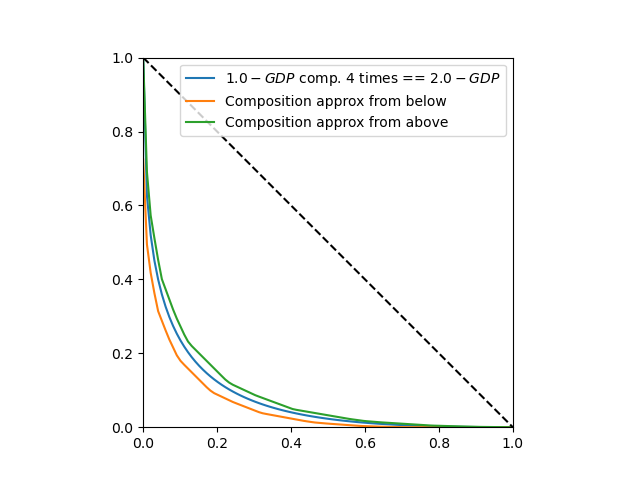
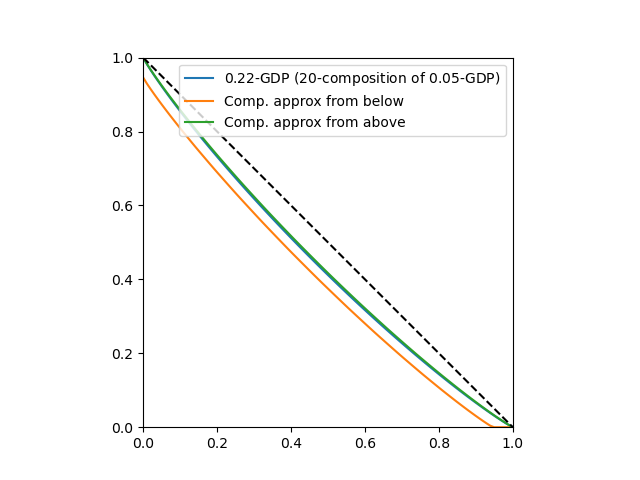
cleaned main

Changed region(s): [[0.2188, 0.125, 0.8125, 0.9062], [0.3438, 0.125, 0.7812, 0.2812]]

diff --git a/src/main.py b/src/main.py
@@ -1,41 +1,34 @@
+import numpy as np
+
+from base.tradeoff_function import TradeOffFunction
+from base.utils import plot_multiple_functions
 from f_dp_approximation.gaussian_tradeoff import GaussianTradeoff
 from f_dp_approximation.laplace_tradeoff import LaplaceTradeoff
-from multi_dp_mixture.dp_functions import SingleEpsDeltaTradeoff
-from main_theorems.combinatorial_version import privacy_region_composition_double_dp_combinatorial
-from main_theorems.heterogeneous_version import privacy_region_composition_double_dp_heterogeneous_comp, \
-    privacy_region_composition_heterogeneous
-from main_theorems.other_composition_theorems import *
-from base.utils import plot_multiple_functions
-from base.tradeoff_function import TradeOffFunction
+from main_theorems.heterogeneous_version import privacy_region_composition_double_dp_heterogeneous_comp
+from main_theorems.other_composition_theorems import privacy_region_composition_exact
+from multi_dp_mixture.dp_functions import SingleEpsDeltaTradeoff, MultiEpsDeltaTradeoff
 
 
-def multi_dp_test():
-    eps_s = [0.8, 0.25]
-    delta_s = [0.1, 0.2]
-    f = MultiEpsDeltaTradeoff(eps_s, delta_s)
-    f.to_plot()
+def png(title: str, plots_folder: str = "../plots/") -> str:
+    """
+    Preprocess title to save matplotlib figure as png in the correct folder.
 
-def add_test():
-    f = 0.5 * (SingleEpsDeltaTradeoff(0.6, 0.5) + SingleEpsDeltaTradeoff(0.5, 0.2))
-    f.to_plot()
+    :param title: title of figure
+    :type title: str
 
-def convex_conj_test():
-    eps_s = [0.8, 0.25]
-    delta_s = [0.1, 0.2]
-    f = MultiEpsDeltaTradeoff(eps_s, delta_s)
-    f.to_plot()
-    f.convex_conjugate().to_plot()
+    :param plots_folder: folder to save figures in
+    :type plots_folder: str
 
-def double_convex_conj_is_identity_test():
-    eps_s = [0.8, 0.25, 0]
-    delta_s = [0.1, 0.2, 0.65]
-    f = MultiEpsDeltaTradeoff(eps_s, delta_s)
-    f.to_plot()
-    f_conj = f.convex_conjugate()
-    f_double_conj = f_conj.convex_conjugate()
-    f_double_conj.to_plot()
+    :return: prepend folder and append .png
+    :rtype: str
+    """
+    return plots_folder + title + ".png"
 
-def first_addition_test():
+
+def mixture_example():
+    """
+    Plot an example of a mixture of trade-off functions.
+    """
     alpha_1 = 0.5
     alpha_2 = 1 - alpha_1
     eps_1 = 1.3
@@ -50,9 +43,15 @@ def first_addition_test():
                                             [f"$({eps_1},{delta_1})$-DP",
                                              f"$({eps_2},{delta_2})$-DP",
                                              f"Mixture, weights ({alpha_1}, {alpha_2})"
-                                             ])
+                                             ],
+                            save_to=png("mixture_example")
+                            )
 
-def two_theorems_match():
+def main_theorem_example():
+    """
+    Plot an instance of the double-DP main theorem's result compared to the corresponding
+    single-DP exact composition trade-off functions.
+    """
     eps_1 = 1.2
     delta_1 = 0.0
     eps_2 = 0.6
@@ -60,66 +59,54 @@ def two_theorems_match():
     k = 3
 
     f1 = privacy_region_composition_double_dp_heterogeneous_comp(eps_1, delta_1, eps_2, delta_2, k)
-    f2 = privacy_region_composition_double_dp_combinatorial(eps_1, delta_1, eps_2, delta_2, k)
     fo = MultiEpsDeltaTradeoff([eps_1, eps_2], [delta_1, delta_2])
     f_dp_1 = privacy_region_composition_exact(eps_1, delta_1, k)
     f_dp_2 = privacy_region_composition_exact(eps_2, delta_2, k)
 
     plot_multiple_functions(
         [
-         #fo,
+         fo,
          f1,
-         f2,
-         #f_dp_1,
-         #f_dp_2
+         f_dp_1,
+         f_dp_2
          ],
         [
-         #f"$({eps_1},{delta_1})$ and $({eps_2},{delta_2})$ DP",
-         f"Heterogeneous ${k}$ comp.",
-         f"Combinatorial ${k}$ comp.",
-         #f"$({eps_1},{delta_1})$-DP {k} comp.",
-         #f"$({eps_2},{delta_2})$-DP {k} comp."
-         ]
+         f"$({eps_1},{delta_1})$ and $({eps_2},{delta_2})$ DP",
+         f"Double DP ${k}$ comp.",
+         f"$({eps_1},{delta_1})$-DP {k} comp.",
+         f"$({eps_2},{delta_2})$-DP {k} comp."
+         ],
+        save_to=png("theorem_1_example")
     )
 
-def privacy_region_heter_sanity_check():
-    eps_1 = 1.3
-    delta_1 = 0.0
-    eps_2 = 0.5
-    delta_2 = 0.2
-    x = 3
-    y = 0
-
-    f_comp = privacy_region_composition_heterogeneous(eps_1, eps_2, x, y)
-    f_original = privacy_region_composition_exact(eps_1, 0, x)
-
-    plot_multiple_functions([f_comp, f_original],["Heterogeneous new", "Original"])
 
 def gaussian_tradeoff_approx():
-    # eps = 1
-    # delta = 0.02
-    # mu = GaussianTradeoff.compute_mu_from_eps_delta(eps, delta)
+    """
+    Plot the double-DP lower and upper approximations of the gaussian tradeoff
+    function.
+    """
     mu = 1
     g_mu = GaussianTradeoff(mu)
     g_mu_approx_below = g_mu.approx_from_below()
     g_mu_approx_above = g_mu.approx_from_above()
-    #default_eps_delta = SingleEpsDeltaTradeoff(eps, delta)
     plot_multiple_functions(
         [
             g_mu,
             g_mu_approx_below,
             g_mu_approx_above,
-            #default_eps_delta
         ],
         [
             f"${float(mu):.2}-GDP$",
             f"Approx below",
             "Approx above",
-            #"Default eps delta guarantee"
-        ]
+        ],
+        save_to=png("gaussian_approx")
     )
 
 def gaussian_compos_approx():
+    """
+    Plot the double-DP lower and upper approximations of the gaussian trade-off composition.
+    """
     mu = 0.05
     k = 20
     mu_composed = np.sqrt(k) * mu
@@ -147,36 +134,37 @@ def gaussian_compos_approx():
             g_mu_composed_above
         ],
         [
-            f"${float(mu):.2}-GDP$ comp. {k} times $= {float(mu_composed):.2}-GDP$",
+            f"${float(mu_composed):.2}$-GDP ({k}-composition of ${float(mu):.2}$-GDP)",
             "Comp. approx from below",
             "Comp. approx from above"
-        ]
+        ],
+        save_to=png("gaussian_compos_approx")
     )
 
 def laplace_tradeoff_approx():
+    """
+    Plot the double-DP lower and upper approximations of the Laplace trade-off composition.
+    """
     eps = 1
     laplace_eps = LaplaceTradeoff(eps)
     lap_eps_approx_below = laplace_eps.approx_from_below()
     laps_eps_approx_above = laplace_eps.approx_from_above()
-    # default_eps_delta = SingleEpsDeltaTradeoff(eps, delta)
     plot_multiple_functions(
         [
             laplace_eps,
             lap_eps_approx_below,
             laps_eps_approx_above
-            # default_eps_delta
         ],
         [
             f"$Laplace({eps})-DP$",
             "Approx below",
             "Approx above",
-            # "Default eps delta guarantee"
-        ]
+        ],
+        save_to=png("laplace_tradeoff")
     )
 
 
-# double_convex_conj_is_identity_test()
-# two_theorems_match()
-# laplace_tradeoff_approx()
+mixture_example()
 gaussian_tradeoff_approx()
-# gaussian_compos_approx()
+gaussian_compos_approx()
+main_theorem_example()

diff --git a/src/tests.py b/src/tests.py
@@ -1,0 +1,84 @@
+import numpy as np
+
+from base.utils import plot_multiple_functions
+from main_theorems.combinatorial_version import privacy_region_composition_double_dp_combinatorial
+from main_theorems.heterogeneous_version import privacy_region_composition_double_dp_heterogeneous_comp, \
+    privacy_region_composition_heterogeneous
+from main_theorems.other_composition_theorems import privacy_region_composition_exact
+from multi_dp_mixture.dp_functions import MultiEpsDeltaTradeoff, SingleEpsDeltaTradeoff
+
+
+def multi_dp_visual_test():
+    eps_s = [0.8, 0.25]
+    delta_s = [0.1, 0.2]
+    f = MultiEpsDeltaTradeoff(eps_s, delta_s)
+    f.to_plot()
+
+def add_visual_test():
+    f = 0.5 * (SingleEpsDeltaTradeoff(0.6, 0.5) + SingleEpsDeltaTradeoff(0.5, 0.2))
+    f.to_plot()
+
+def two_theorems_match():
+    eps_1 = 1.2
+    delta_1 = 0.0
+    eps_2 = 0.6
+    delta_2 = 0.2
+    k = 3
+
+    f1 = privacy_region_composition_double_dp_heterogeneous_comp(eps_1, delta_1, eps_2, delta_2, k)
+    f2 = privacy_region_composition_double_dp_combinatorial(eps_1, delta_1, eps_2, delta_2, k)
+    fo = MultiEpsDeltaTradeoff([eps_1, eps_2], [delta_1, delta_2])
+    f_dp_1 = privacy_region_composition_exact(eps_1, delta_1, k)
+    f_dp_2 = privacy_region_composition_exact(eps_2, delta_2, k)
+
+    plot_multiple_functions(
+        [
+         fo,
+         f1,
+         f2,
+         f_dp_1,
+         f_dp_2
+         ],
+        [
+         f"$({eps_1},{delta_1})$ and $({eps_2},{delta_2})$ DP",
+         f"Heterogeneous ${k}$ comp.",
+         f"Combinatorial ${k}$ comp.",
+         f"$({eps_1},{delta_1})$-DP {k} comp.",
+         f"$({eps_2},{delta_2})$-DP {k} comp."
+         ]
+    )
+
+def double_convex_conj_is_identity_test():
+    eps_s = [0.8, 0.25, 0]
+    delta_s = [0.1, 0.2, 0.65]
+    f = MultiEpsDeltaTradeoff(eps_s, delta_s)
+    f.to_plot()
+    f_conj = f.convex_conjugate()
+    f_double_conj = f_conj.convex_conjugate()
+    f_double_conj.to_plot()
+
+    x = np.linspace(0, 1, 100)
+    assert np.allclose(f_double_conj(x), f(x))
+
+
+def privacy_region_heter_sanity_check():
+    eps_1 = 1.3
+    delta_1 = 0.0
+    eps_2 = 0.5
+    delta_2 = 0.2
+    x = 3
+    y = 0
+
+    f_comp = privacy_region_composition_heterogeneous(eps_1, eps_2, x, y)
+    f_original = privacy_region_composition_exact(eps_1, 0, x)
+
+    plot_multiple_functions([f_comp, f_original],["Heterogeneous new", "Original"])
+
+    x = np.linspace(0, 1, 100)
+    assert np.allclose(f_original(x), f_comp(x))
+
+multi_dp_visual_test()
+add_visual_test()
+two_theorems_match()
+double_convex_conj_is_identity_test()
+privacy_region_heter_sanity_check()

diff --git a/src/base/utils.py b/src/base/utils.py
@@ -7,7 +7,8 @@ def plot_multiple_functions(
         labels: List[str],
         start=0,
         end=1,
-        num_points=100
+        num_points=100,
+        save_to: str = None
 ):
     """
     Plots multiple functions on the same graph, providing a visual comparison
@@ -19,14 +20,17 @@ def plot_multiple_functions(
     :param labels: A list of labels corresponding to each function in f_arr,
                    which will be used for the plot's legend.
     :type labels: List[str]
-    :type start: First point to plot. Defaults to 0.
+    :param start: First point to plot. Defaults to 0.
     :type start: float, optional
-    :type end: Last point to plot. Defaults to 1.
+    :param end: Last point to plot. Defaults to 1.
     :type end: float, optional
     :param num_points: The granularity of the plot, specifying the number of
                        sample points to generate within the range [start, end].
                        Defaults to 100.
     :type num_points: int, optional
+    :param save_to: path where to save the figure. Defaults to None. If given,
+                    does not display figure and only saves it to folder.
+    :type save_to: str, optional
     :return: None
     """
     assert len(f_arr) == len(labels)
@@ -42,7 +46,12 @@ def plot_multiple_functions(
     ax.set_aspect('equal', adjustable='box')
     ax.set_autoscale_on(False)
 
-    plt.show()
+    if save_to is not None:
+        plt.savefig(save_to)
+    else:
+        plt.show()
+
+    plt.close()
 
 def plot_one_function(f: TradeOffFunction, label: str, start=0, end=1, num_points=100):
     plot_multiple_functions([f], [label], start, end, num_points)

diff --git a/src/base/convex_function.py b/src/base/convex_function.py
@@ -1,9 +1,9 @@
 from base.definitions import *
 
 
-class ConvexFunction(Callable[[Array], Array], ABC):
+class RealFunction(Callable[[Array], Array], ABC):
     """
-    Represents an abstract convex function with its convex conjugate.
+    Represents an abstract function of real parameter with its convex conjugate.
     """
 
     @abstractmethod
@@ -11,7 +11,7 @@ class ConvexFunction(Callable[[Array], Array], ABC):
         pass
 
     @abstractmethod
-    def convex_conjugate(self) -> 'ConvexFunction':
+    def convex_conjugate(self) -> 'RealFunction':
         """
         Computes the convex conjugate of the current function.
 
@@ -20,6 +20,6 @@ class ConvexFunction(Callable[[Array], Array], ABC):
 
         This is useful for computing the weighted infimal convolution.
 
-        :return: A new instance of `ConvexFunction` representing the convex conjugate.
+        :return: A new instance of `RealFunction` representing the convex conjugate.
         """
         pass

diff --git a/src/base/tradeoff_function.py b/src/base/tradeoff_function.py
@@ -1,8 +1,8 @@
 from base.definitions import *
-from base.convex_function import ConvexFunction
+from base.convex_function import RealFunction
 
 
-class TradeOffFunction(ConvexFunction, ABC):
+class TradeOffFunction(RealFunction, ABC):
     """
     Represents an abstract tradeoff function.
     """

diff --git a/src/multi_dp_mixture/piecewise_affine.py b/src/multi_dp_mixture/piecewise_affine.py
@@ -1,8 +1,8 @@
 from base.definitions import *
-from base.convex_function import ConvexFunction
+from base.convex_function import RealFunction
 
 
-class PiecewiseAffine(ConvexFunction):
+class PiecewiseAffine(RealFunction):
     """
     Represents a piecewise affine function.
 
